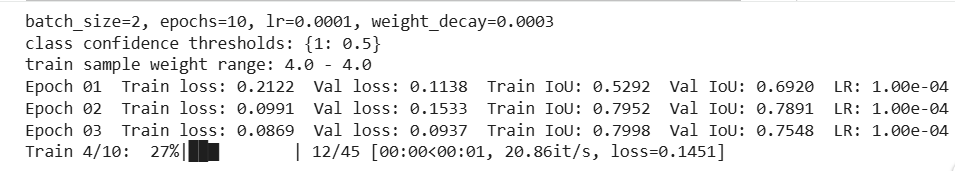
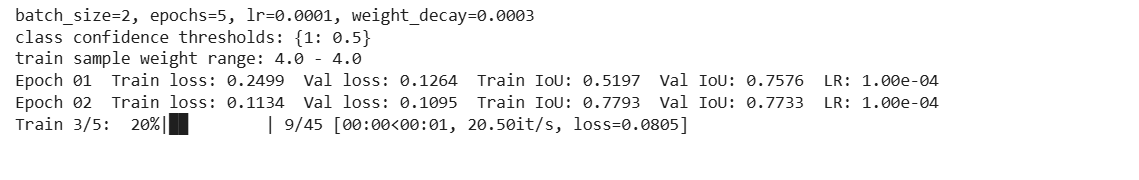
Update README.md

diff --git a/README.md b/README.md
@@ -4,7 +4,7 @@
 
 **Date: Spring 2026**
 
-This is a tutorial prepared for the University of Washington **MSE 544 — Computer Vision in Materials Science** class. In this tutorial, students will learn the fundamentals of image segmentation and the U-Net architecture; how to build a complete defect-segmentation pipeline from raw STEM images of MoS₂ — including labeling with LabelMe, dataset preparation, U-Net training on a free Nvidia T4 GPU on Google Colab, and inference on unlabeled test images; and how to iteratively improve segmentation performance through augmentation, loss design, hyperparameter tuning, and additional labeling.
+This is a tutorial prepared for the University of Washington **MSE 544 — Computer Vision in Materials Science** class. In this tutorial, students will learn the fundamentals of image segmentation and the U-Net architecture; how to build a complete defect-segmentation pipeline from raw STEM images of MoS₂ — including labeling with LabelMe, dataset preparation, U-Net training on a free Nvidia T4 GPU on Google Colab, and inference on unlabeled test images; and how to iteratively improve segmentation performance through augmentation, loss design, hyperparameter tuning, and additional labeling (= adding more training data).
 
 **Before you start**, please download the **image_data.zip** from the Canvas page. After unzipping in a project folder, your folder content should look like this:
 
@@ -1070,7 +1070,7 @@ The main training cell. Sets the hyperparameters (`BATCH_SIZE`, `EPOCHS=10` base
 from tqdm import tqdm
 
 BATCH_SIZE = 2 
-EPOCHS = 10   # Baseline: 10 epochs -- TODO: increase to 20-30 for a fully trained model
+EPOCHS = 5   # you may try 10, 20, 30 epochs for a better trained model
 LR = 1e-4
 WEIGHT_DECAY = 3e-4
 EARLY_STOPPING_PATIENCE = 3
